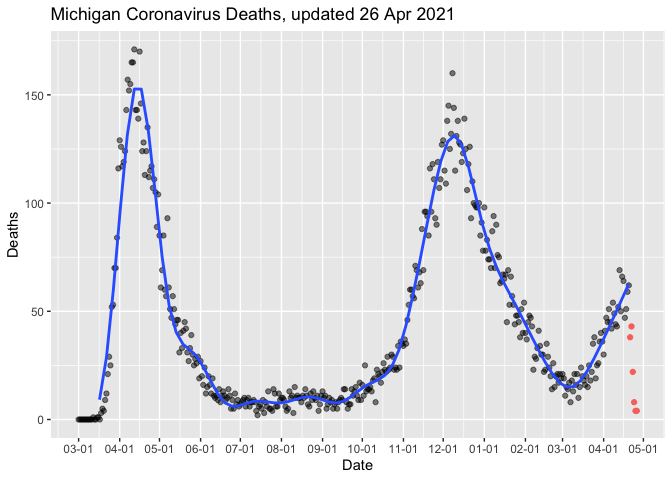
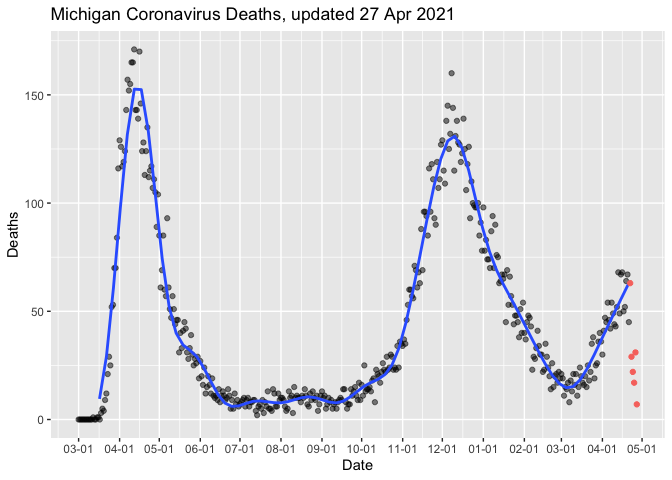
Apr-28 2021 10:34 update

diff --git a/MiCorona.md b/MiCorona.md
@@ -1,7 +1,7 @@
 Michigan COVID Data
 ================
 Adam D. DenHaan
-Apr 27, 2021
+Apr 28, 2021
 
 ``` python
 from urllib.request import urlopen
@@ -34,7 +34,7 @@ mi_data = readxl::read_excel("data/covid.xlsx")
 glimpse(mi_data)
 ```
 
-    ## Rows: 74,285
+    ## Rows: 74,459
     ## Columns: 8
     ## $ COUNTY            <chr> "Alcona", "Alcona", "Alcona", "Alcona", "Alcona", "A…
     ## $ Date              <dttm> 2020-03-01, 2020-03-02, 2020-03-03, 2020-03-04, 202…
@@ -43,7 +43,7 @@ glimpse(mi_data)
     ## $ Deaths            <dbl> 0, 0, 0, 0, 0, 0, 0, 0, 0, 0, 0, 0, 0, 0, 0, 0, 0, 0…
     ## $ Cases.Cumulative  <dbl> 0, 0, 0, 0, 0, 0, 0, 0, 0, 0, 0, 0, 0, 0, 0, 0, 0, 0…
     ## $ Deaths.Cumulative <dbl> 0, 0, 0, 0, 0, 0, 0, 0, 0, 0, 0, 0, 0, 0, 0, 0, 0, 0…
-    ## $ Updated           <dttm> 2021-04-26 14:22:45, 2021-04-26 14:22:45, 2021-04-2…
+    ## $ Updated           <dttm> 2021-04-27 14:40:35, 2021-04-27 14:40:35, 2021-04-2…
 
 Wrangle Data:
 
